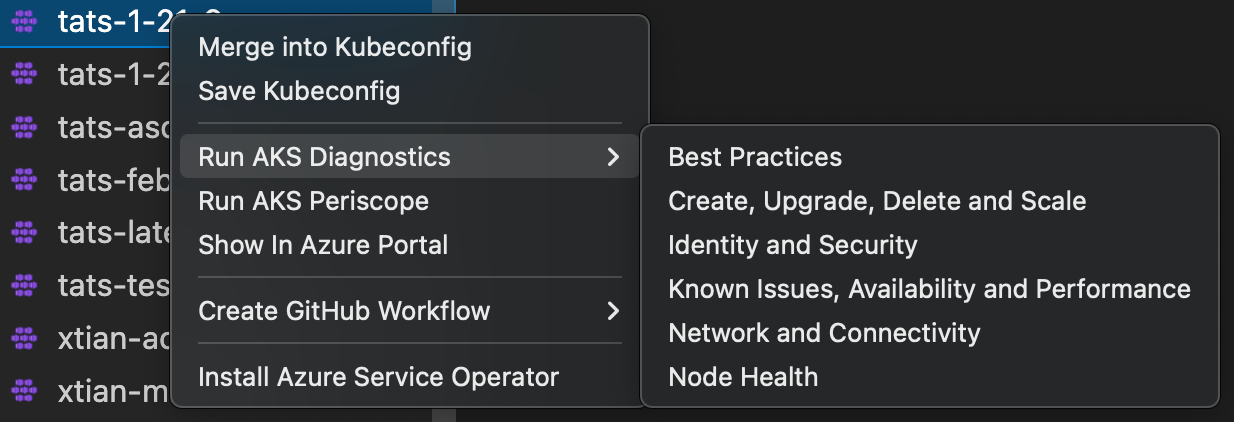
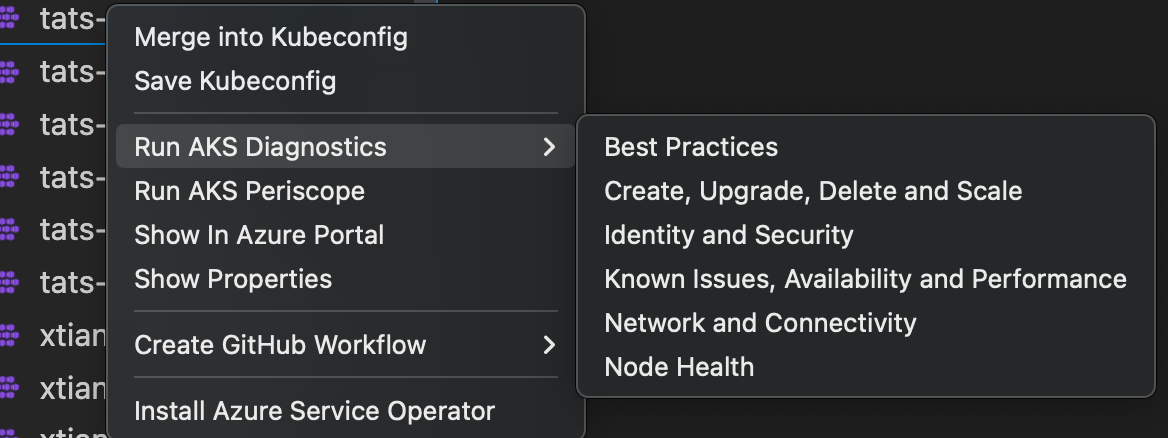
Publish 1.0.0 non preview release. (#135)

Changed region(s): [[0.0, 0.0, 1.0, 0.9858], [0.0, 0.9858, 0.0925, 1.0]]

diff --git a/README.md b/README.md
@@ -3,7 +3,7 @@
     <img src="https://vsmarketplacebadge.apphb.com/rating-star/ms-kubernetes-tools.vscode-aks-tools.svg">
 </a>
 
-# Azure Kubernetes Service (AKS) Extension for Visual Studio Code (Preview)
+# Azure Kubernetes Service (AKS) Extension for Visual Studio Code
 
 * View your AKS clusters in the Kubernetes extension cloud explorer
 * Add AKS clusters to kubeconfig
@@ -12,6 +12,7 @@
 * Install Azure Service Operator on your AKS cluster
 * Create GitHub Workflow from your AKS cluster
 * Show AKS cluster overview in Azure Portal
+* Show AKS cluster properties
 
 ## Installation
 
@@ -109,6 +110,10 @@ Right click on your AKS cluster and click on **Create GitHub Workflow** to easil
 ### Show in Azure Portal
 
 Right click on your AKS cluster and click on **Show in Azure Portal** to easily navigate to AKS cluster overview page in Azure Portal.
+
+### Show Properties
+
+Right click on your AKS cluster and click on **Show Properties** to display the AKS cluster and agent pool properties like provisioning state, fqdn, k8s version, along with node properties like node version, vm type, vm size, o/s type, o/s disk size and nodes provisioning state.
 
 ## Telemetry
 

diff --git a/CHANGELOG.md b/CHANGELOG.md
@@ -1,5 +1,12 @@
 # Change Log
 
+## [1.0.0]
+
+* Enabling show cluster properties feature.
+* Extension is now out of preview.
+
+Thanks to @rzhang628 and @peterbom for reviews.
+
 ## [0.0.19]
 
 * Enabling show in azure portal usability feature.
